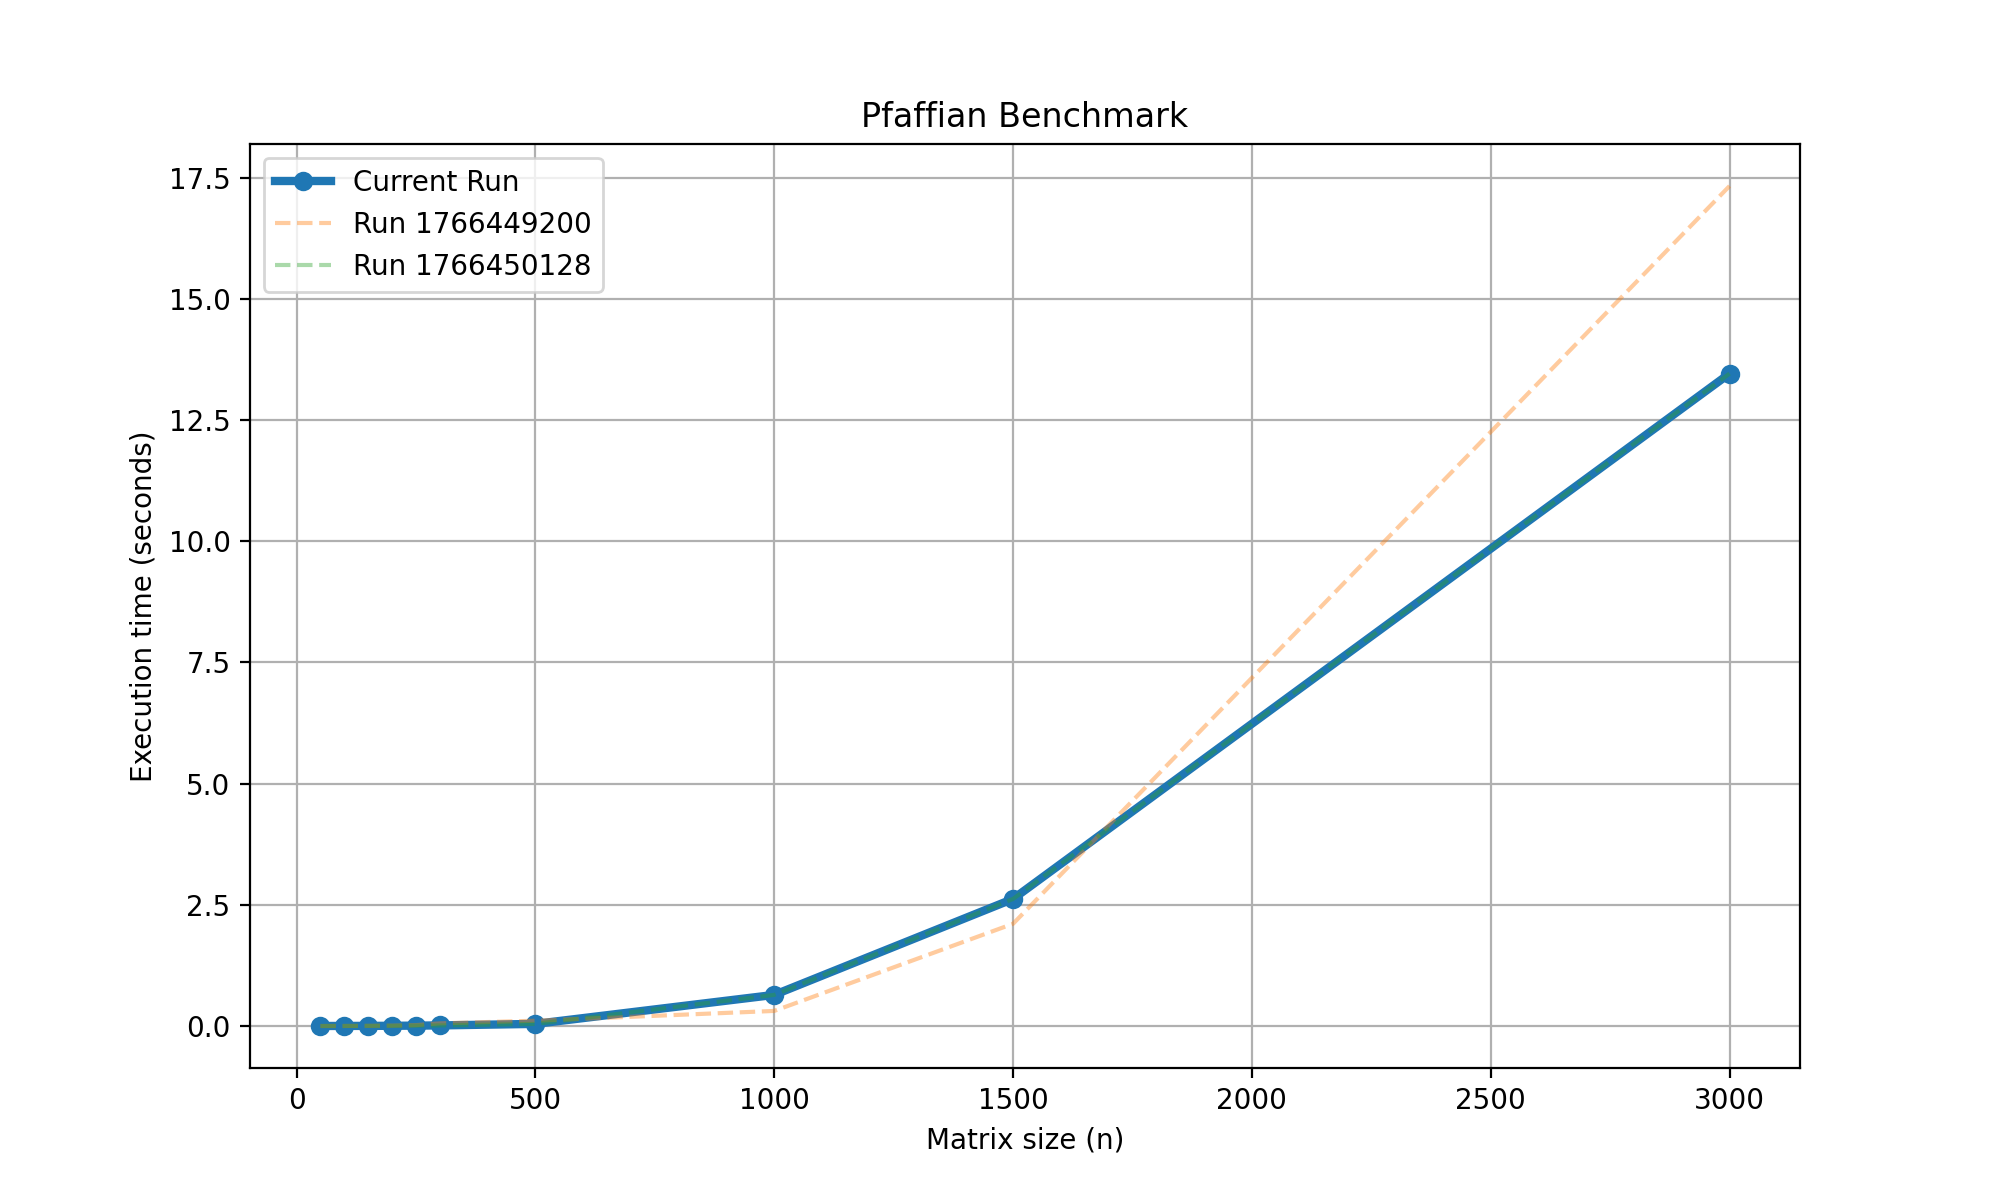
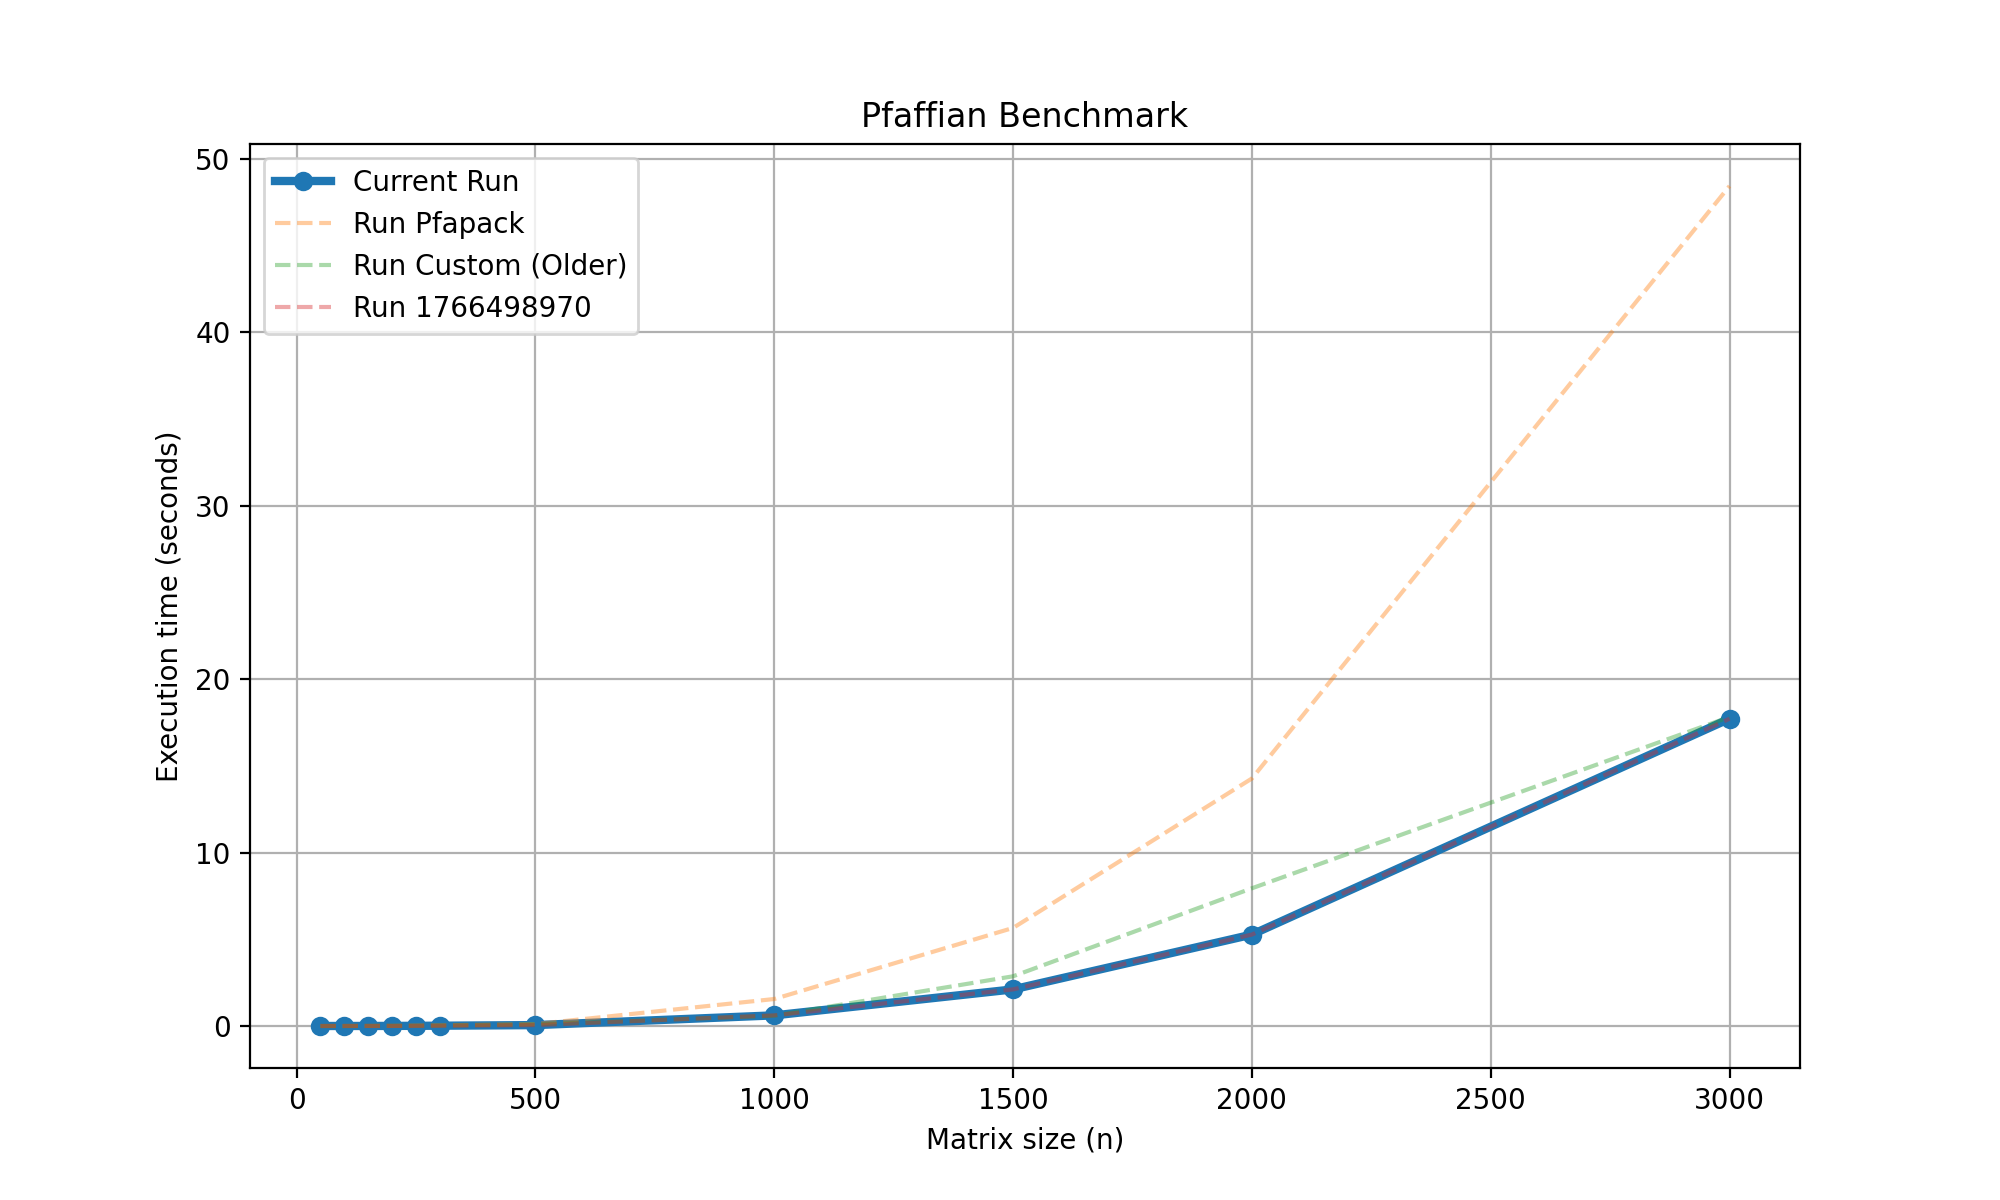
jax optimization

diff --git a/blocked/python/pfaffian_np_single_block.py b/blocked/python/pfaffian_np_single_block.py
@@ -30,24 +30,11 @@ def pfaffian(A):
 
         uAk = A[k, k + 1:] + ((V[k] @ W.T[:, k + 1:]) - (W[k] @ V.T[:, k + 1:]))
 
-        # print('V = ', V)
-        # print('W = ', W)
-        # print('_____')
-        # print(f"V[{k}] = ", V[k]) 
-        # print(f"W.T[:, {k + 1}:] = ", W.T[:, k + 1:])
-        # print(V[k] @ W.T[:, k + 1:])
-        # print('_____')
-        # print(f"W[{k}] = ", W[k])
-        # print(f"V.T[:, {k + 1}:] = ", V.T[:, k + 1:])
-        # print((W[k] @ V.T[:, k + 1:]))
-        # print('__________')
-        # print('\n\n\n')
-
         V[k + 2:, k] = uAk[1:] / uAk[0]
         W[:, k] = A[:, k + 1] + ((W[k + 1] @ V.T) - (V[k + 1] @ W.T))
 
     for k in range(0, n, 2):
-        diff = (V[k] @ W.T[:, k + 1]) - (W[k] @ V.T[:, k + 1])
+        diff = (V[k] @ W.T[:, k + 1]) - (V[k + 1] @ W.T[:, k])
         result *= A[k, k + 1] + diff
     
     return result

diff --git a/blocked/python/pfaffian_jax.py b/blocked/python/pfaffian_jax.py
@@ -6,7 +6,6 @@ jax.config.update("jax_enable_x64", True)
 
 @jax.jit
 def pfaffian(A):
-    result = 1.0
     n = A.shape[0]
 
     if n == 2:
@@ -30,10 +29,11 @@ def pfaffian(A):
 
     _, V, W = lax.fori_loop(0, (n // 2) - 1, calc_vector_blocks, (A, V, W))
 
-    VWt = V @ W.T
-    fA = A + (VWt - VWt.T)
-    
-    result = jnp.prod(fA[jnp.arange(0, n, 2), jnp.arange(1, n, 2)])
+    V_pairs = V.reshape(-1, 2, V.shape[1])
+    W_pairs = W.reshape(-1, 2, W.shape[1])
+
+    diffs = jnp.sum(V_pairs[:,0] * W_pairs[:,1] - V_pairs[:,1] * W_pairs[:,0], axis=1)
+    result = jnp.prod(A[0::2, 1::2].diagonal() + diffs)
 
     return result
 

diff --git a/blocked/python/benchmark.py b/blocked/python/benchmark.py
@@ -7,7 +7,7 @@ import matplotlib.pyplot as plt
 # -------------------------------
 # Configuration
 # -------------------------------
-MATRIX_SIZES = [50, 100, 150, 200, 250, 300, 500, 1000, 1500, 3000]
+MATRIX_SIZES = [50, 100, 150, 200, 250, 300, 500, 1000, 1500, 2000, 3000]
 REPEATS = 5
 JSON_FILE = "benchmark_results.json"
 
